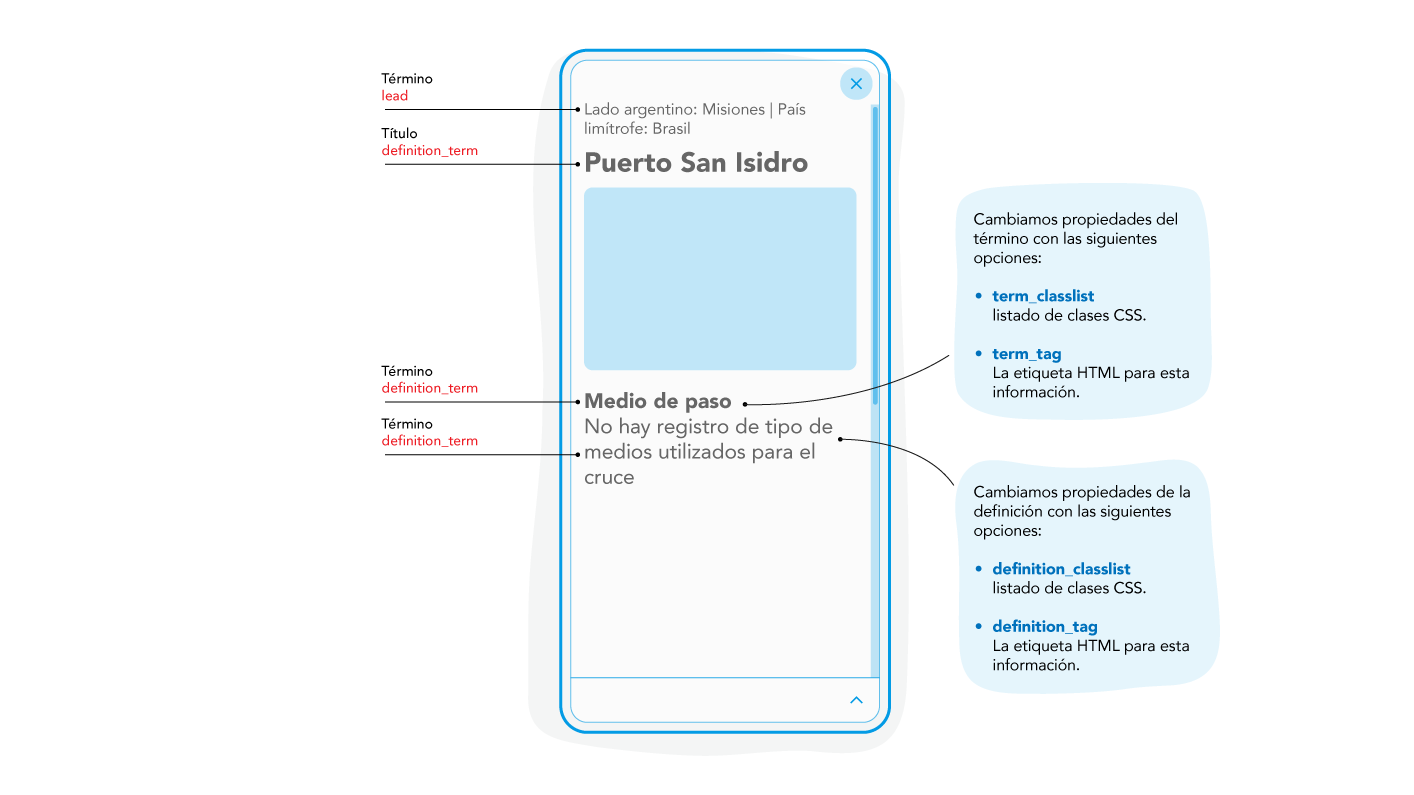
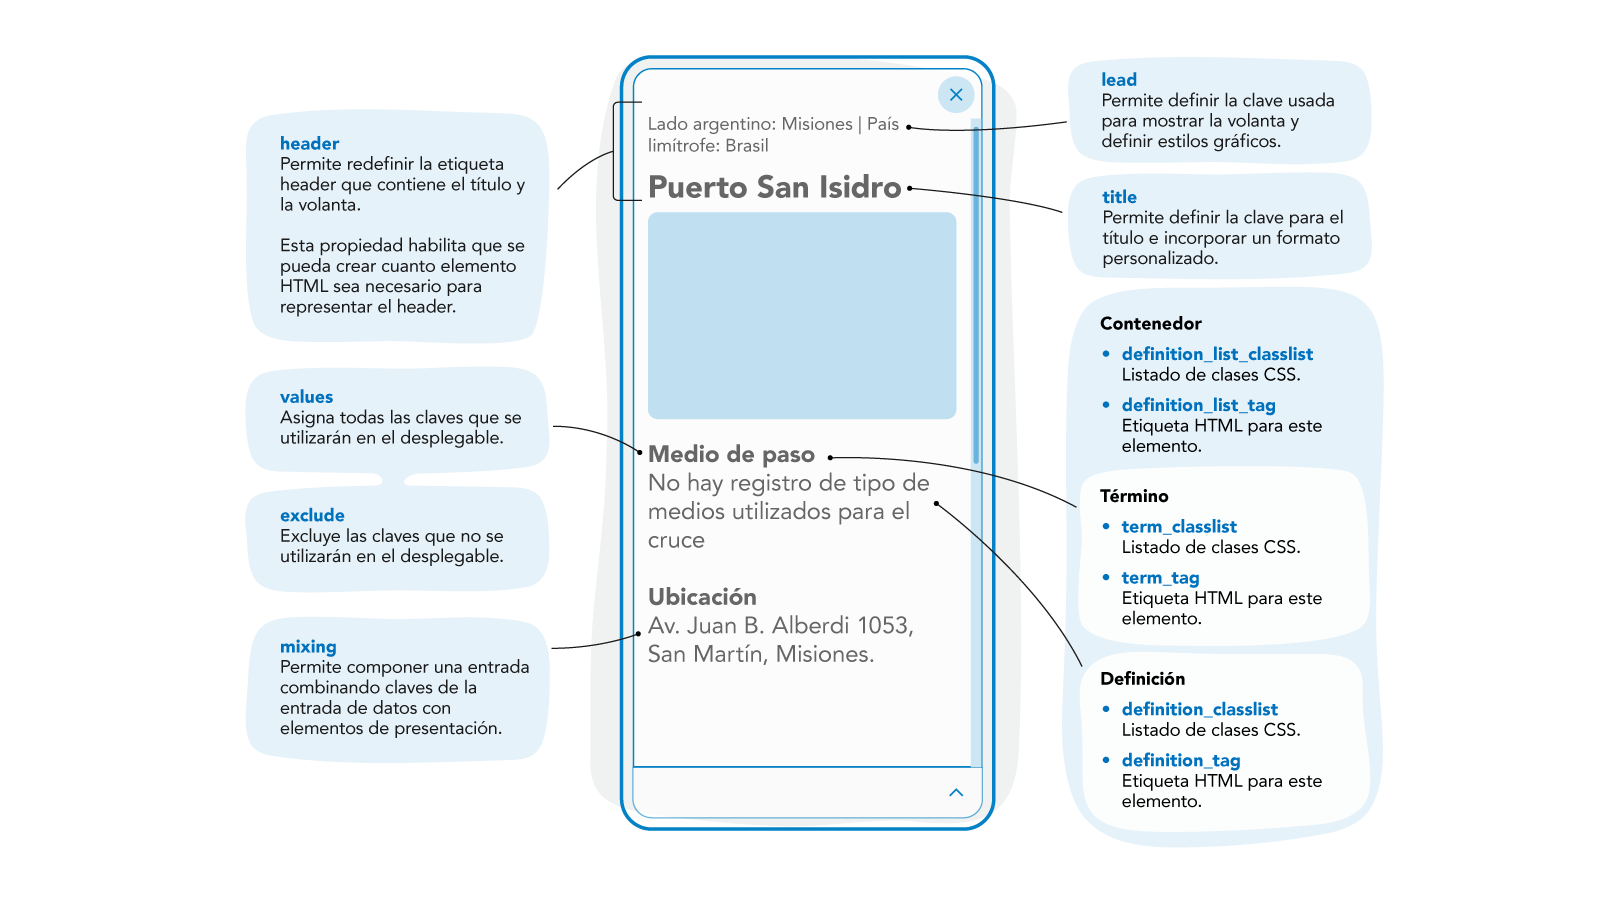
values exclude

Changed region(s): [[0.1556, 0.0604, 0.8713, 0.966]]

diff --git a/src/js/poncho-map/docs/template-structure/README.md b/src/js/poncho-map/docs/template-structure/README.md
@@ -19,7 +19,7 @@ En esta sección, se detalla el uso y el tipo de valor esperado para cada índic
 
 
 
-<div style="border:1px solid #ddd">
+<div style="border:1px solid #68C3EF; border-radius:8px; overflow:clip">
 <img src="./img/template-structure-header.png" style="display:block" />
 </div>
 
@@ -58,6 +58,18 @@ const options = {
     </tr>
   </thead>
   <tbody>
+    <tr>
+      <td>values</td>
+      <td><code>Array()</code></td>
+      <td><code>[]</code></td>
+      <td><p>Permite defini cuales son las claves que deben imprimirse en el slider.</p></td>
+    </tr>
+    <tr>
+      <td>exclude</td>
+      <td><code>Array()</code></td>
+      <td><code>[]</code></td>
+      <td><p>Permite definir cuales son las claves que <b>no</b> deben imprimirse en el slider.</p></td>
+    </tr>
     <tr>
       <td>container_classlist</td>
       <td><code>Array()</code></td>
